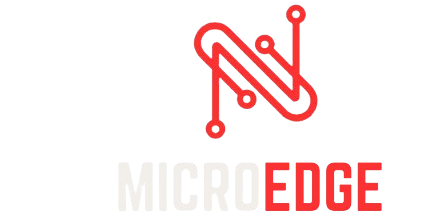
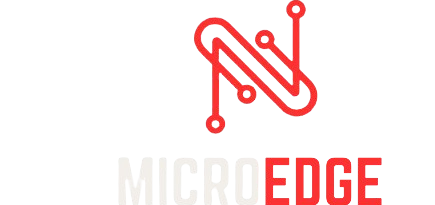
Add files via upload

diff --git a/index.html b/index.html
@@ -18,7 +18,7 @@
             <nav class="navbar navbar-expand-lg navbar-light bg-black fixed-top">
                 <div class="container-fluid">
                     <a class="navbar-brand" href="file:///C:/Users/AL-FARES/Desktop/Business%20Website/index.html">
-                        <img src="MICROEDGE.png" alt="" class="logo" width="120px">
+                        <img src="MICROEDGE.png" alt="" class="logo" width="115px">
                     </a>
                     <button class="navbar-toggler" type="button" data-bs-toggle="collapse" data-bs-target="#navbarSupportedContent" aria-controls="navbarSupportedContent" aria-expanded="false" aria-label="Toggle navigation">
                         <span class="navbar-toggler-icon"></span>
